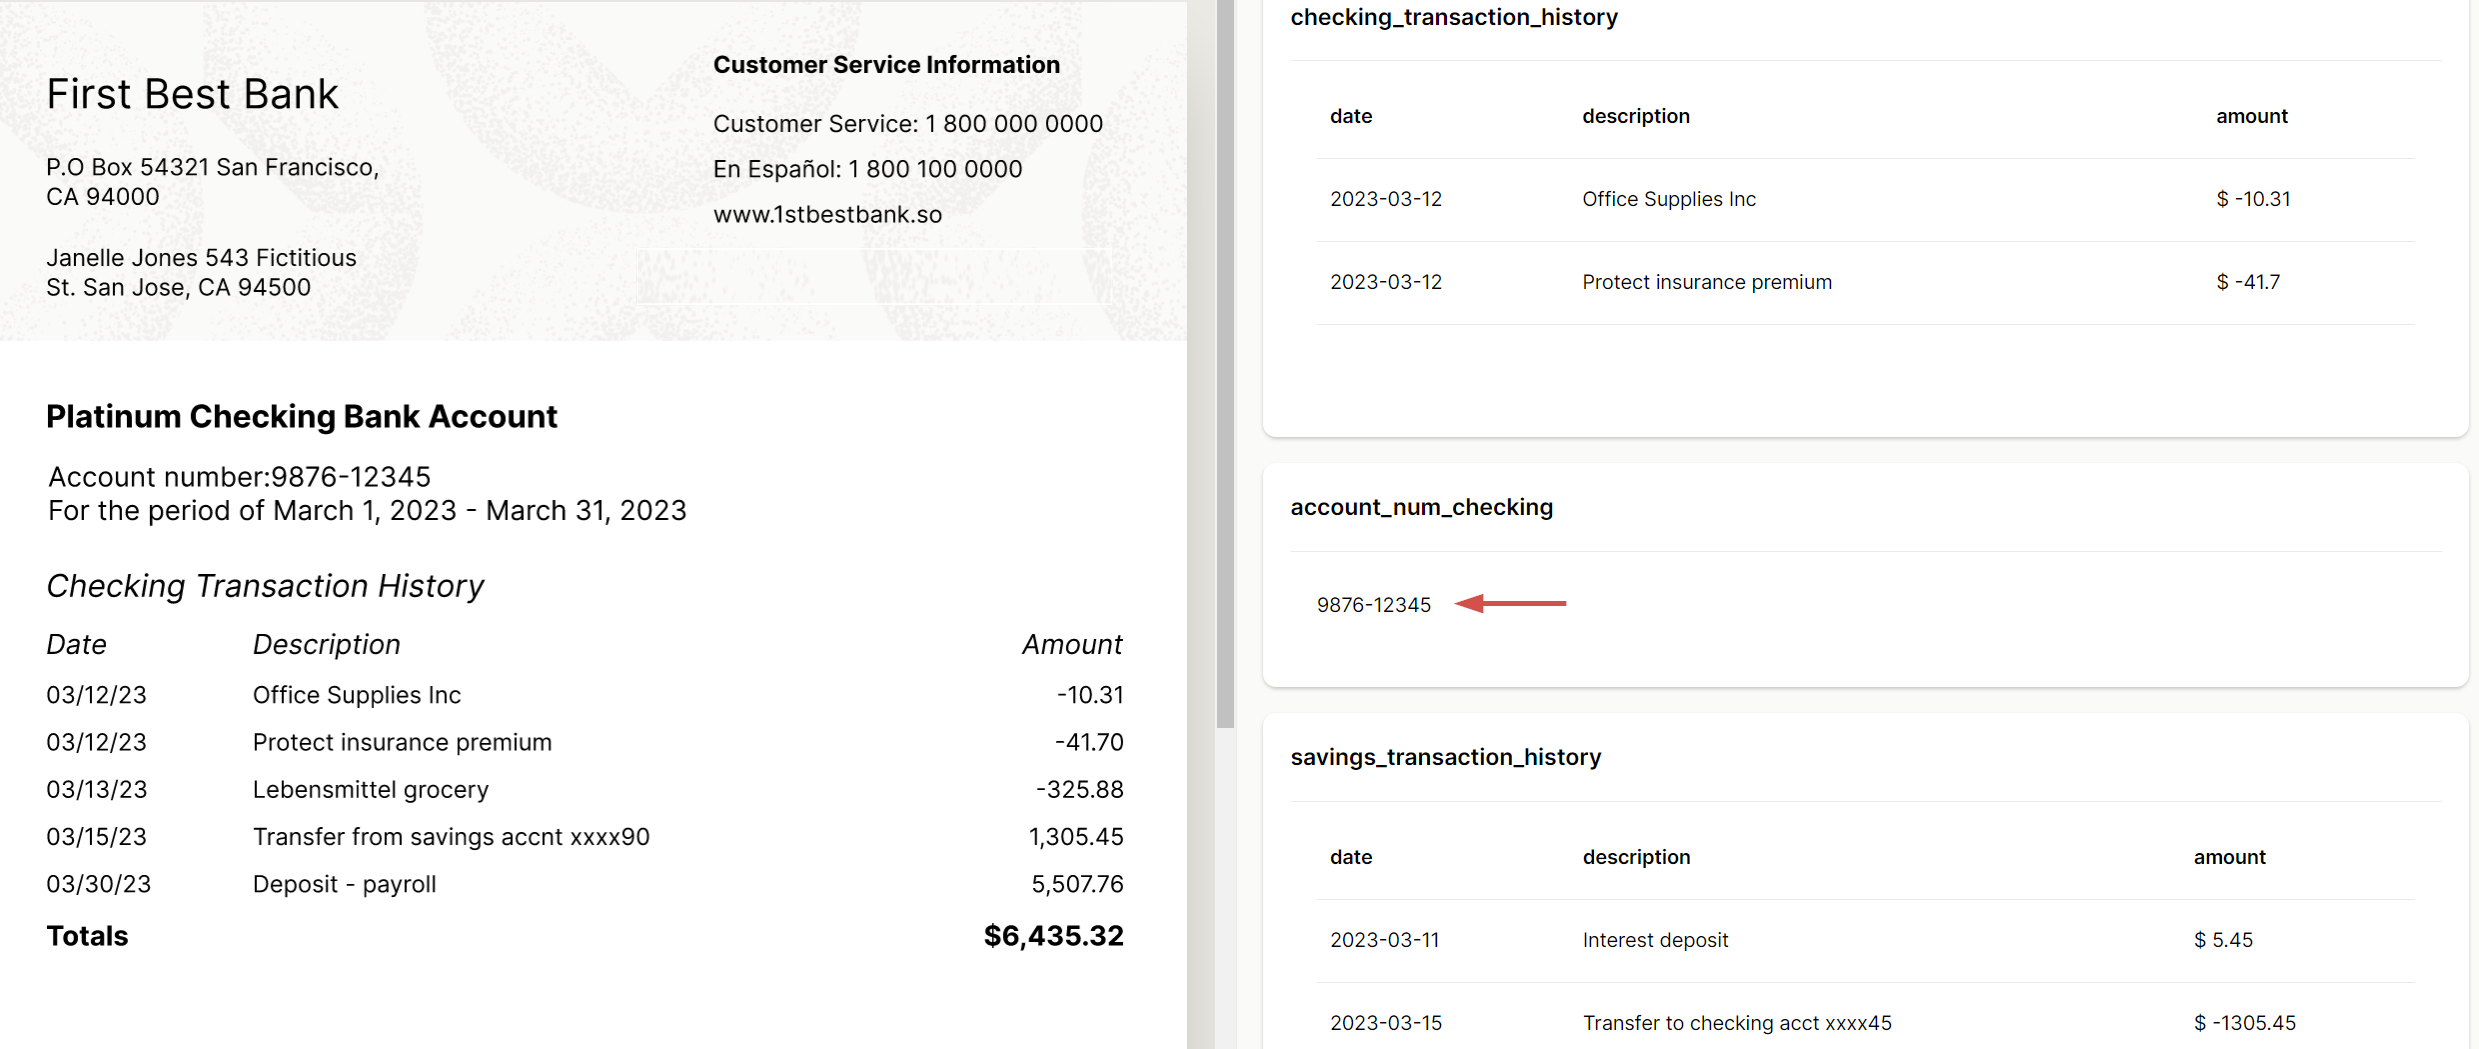
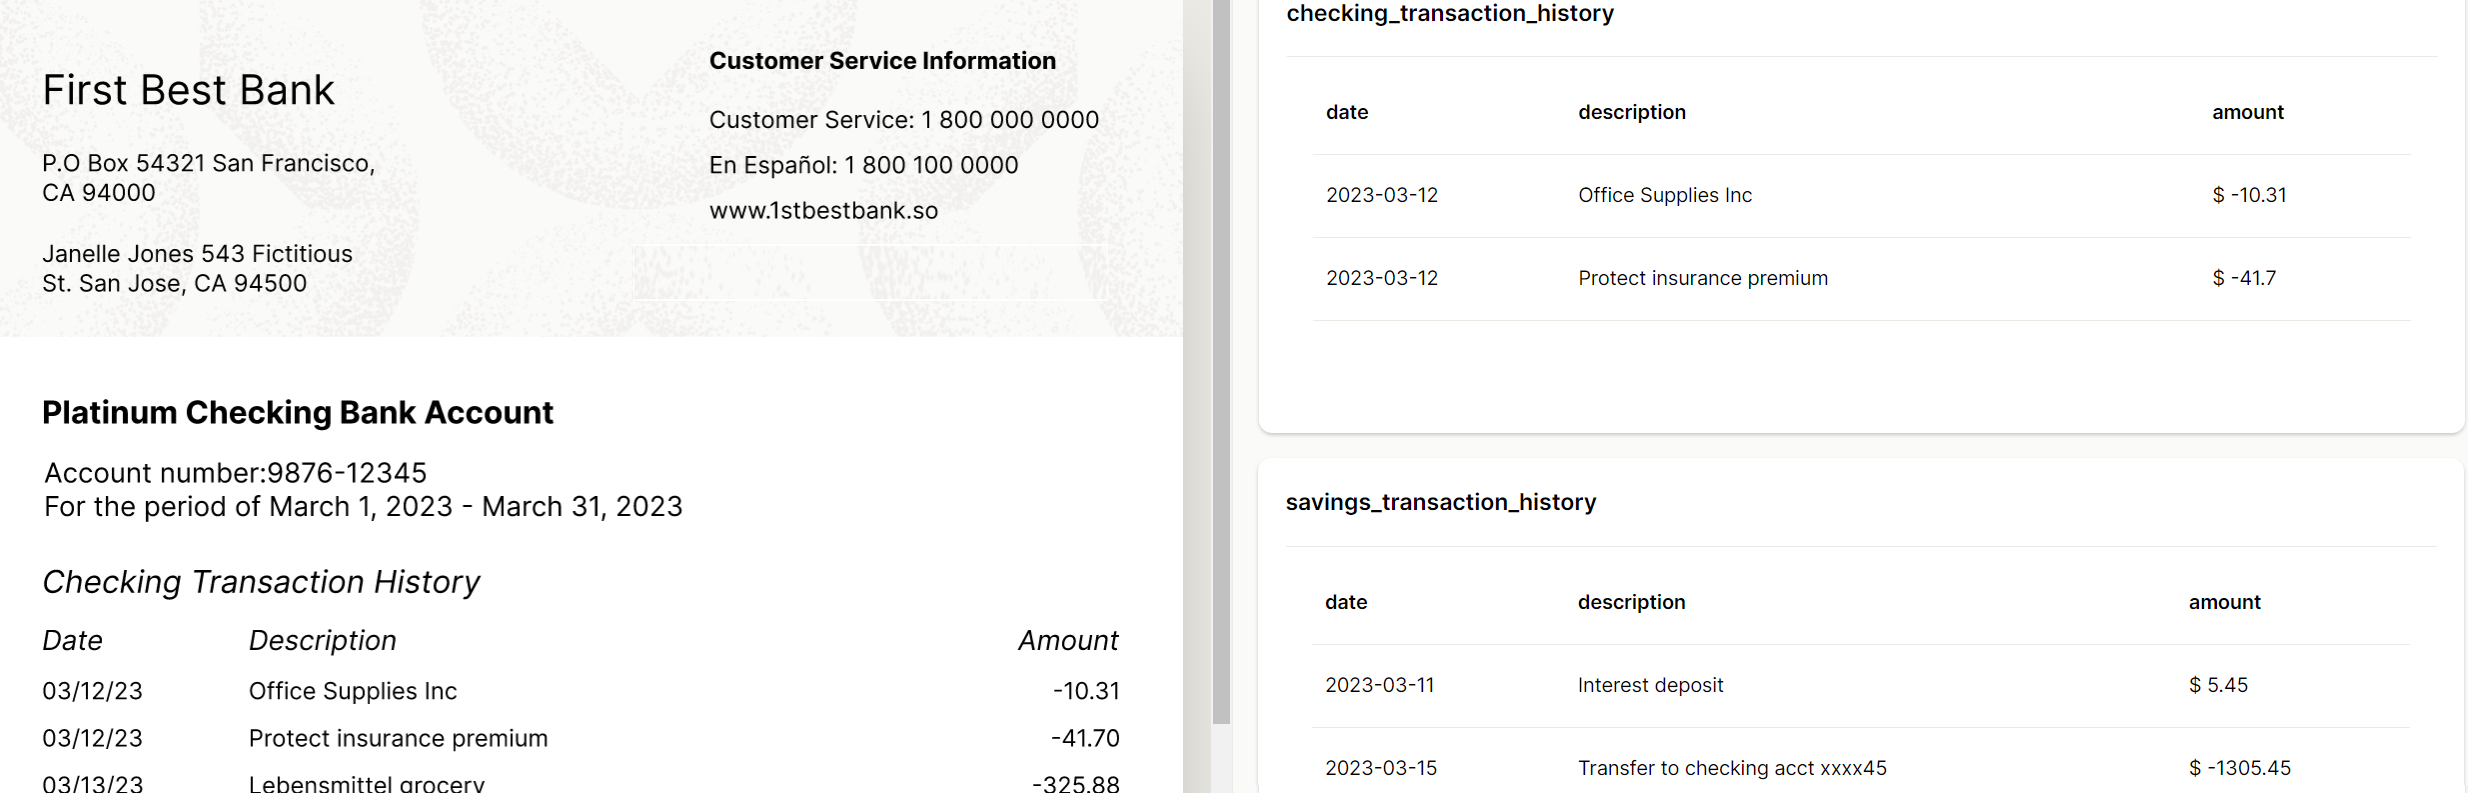
update GSG

diff --git a/readme-sync/v0/welcome/2000 - getting-started-ai.md b/readme-sync/v0/welcome/2000 - getting-started-ai.md
@@ -70,26 +70,35 @@ To test the automatically generated extraction configuration with another docume
 
 ## Manually configure extraction
 
-1. To author your own LLM prompts to extract data points from the document, click **Query group**.
+### Extract a table
 
-![Click to enlarge](https://raw.githubusercontent.com/sensible-hq/sensible-docs/main/readme-sync/assets/v0/images/final/quickstart_instruct_2.png)
+So far, you've extracted short, simple facts. Now let's extract more complex data, such as tables and lists. To extract a table, take the following steps:
 
-2. Edit the query group as shown in the following screenshot by entering `checking account number (not savings)` in the query field.  Click **Extract**. 
-2. Sensible displays the extracted account number, `8347-32348`, in the **Extracted data** section:
+- Click **Back to fields**.
 
-![Click to enlarge](https://raw.githubusercontent.com/sensible-hq/sensible-docs/main/readme-sync/assets/v0/images/final/quickstart_instruct_3.png)
+- Click **Table**
 
-4. Click **Back to fields**.
+![Click to enlarge](https://raw.githubusercontent.com/sensible-hq/sensible-docs/main/readme-sync/assets/v0/images/final/quickstart_llm_10.png)
 
-Congratulations! You extracted the checking account number from the bank statement.
+- The example already extracts the transaction history for the checking account. To extract the transaction history for the savings account, configure the table as shown in the following image. Configure a query for each column in the table, for example, `credits`, `debits`, and `balance`.
+
+![Click to enlarge](https://raw.githubusercontent.com/sensible-hq/sensible-docs/main/readme-sync/assets/v0/images/final/quickstart_llm_11.png)
+
+- Scroll down the right pane and click **Extract**. Sensible displays the extracted data:
+
+![Click to enlarge](https://raw.githubusercontent.com/sensible-hq/sensible-docs/main/readme-sync/assets/v0/images/final/quickstart_llm_12.png)
+
+   It looks like your prompt was successful at extracting the account activity. Great! 
 
 ## Publish the prompt
 
-To extract checking account numbers from other bank statements in production,  publish the "config" containing your prompt.
+To extract similar data from other bank statements in production,  publish the "config" containing your prompt.
 
  Click **Publish configuration**, click **Production**, then click **Publish to production**:
 
 ![Click to enlarge](https://raw.githubusercontent.com/sensible-hq/sensible-docs/main/readme-sync/assets/v0/images/final/quickstart_instruct_10.png)
+
+Now you've published your config, you can get document data at scale using Sensible's APIs, SDKs, or bulk-upload UI. Put the extracted data to work in Excel files, databases, and other destinations. For more information, see [Integrating](doc:integrate).
 
 ## Test the prompt
 
@@ -99,11 +108,9 @@ Let's see if the config containing your prompt works with other bank statements.
 
 ![Click to enlarge](https://raw.githubusercontent.com/sensible-hq/sensible-docs/main/readme-sync/assets/v0/images/final/quickstart_instruct_8.png)
 
-2. In the right pane, scroll down to the checking account number field you authored in previous steps. Verify that the extracted information automatically updated to reflect the second example document. For example, the account number updated from `8347-32348` to `9876-12345`: 
+2. In the right pane, scroll down to view the fields you authored in previous steps. Verify that the extracted data automatically updated to reflect the second example document.
 
 ![Click to enlarge](https://raw.githubusercontent.com/sensible-hq/sensible-docs/main/readme-sync/assets/v0/images/final/quickstart_instruct_9.png)
-
-It looks like your prompt was successful at extracting the checking account number from another document. Great! 
 
 ## (Optional) Extract more data
 

diff --git a/readme-sync/v0/welcome/2000 - draft-getting-started-ai.md b/readme-sync/v0/welcome/2000 - draft-getting-started-ai.md
@@ -122,25 +122,7 @@ Sensible displays the auto-generated prompts and extracted data:
 
  ![Click to enlarge](https://raw.githubusercontent.com/sensible-hq/sensible-docs/main/readme-sync/assets/v0/images/final/quickstart_llm_7.png) 
 
-### Extract a table
 
-So far, you've extracted short, simple facts. Now let's extract more complex data, such as tables and lists. To extract a table, take the following steps:
-
-- Click **Back to fields**.
-
-- Click **Table**
-
-![Click to enlarge](https://raw.githubusercontent.com/sensible-hq/sensible-docs/main/readme-sync/assets/v0/images/final/quickstart_llm_10.png)
-
-- To extract the account activity for the savings account, configure the table as shown in the following image. Configure a query for each column in the table, for example, `credits`, `debits`, and `balance`.
-
-![Click to enlarge](https://raw.githubusercontent.com/sensible-hq/sensible-docs/main/readme-sync/assets/v0/images/final/quickstart_llm_11.png)
-
-- Scroll down the right pane and click **Extract**. Sensible displays the extracted data:
-
-![Click to enlarge](https://raw.githubusercontent.com/sensible-hq/sensible-docs/main/readme-sync/assets/v0/images/final/quickstart_llm_12.png)
-
-   It looks like your prompt was successful at extracting the account activity. Great! 
 
 ## Publish the prompts and integrate
 
